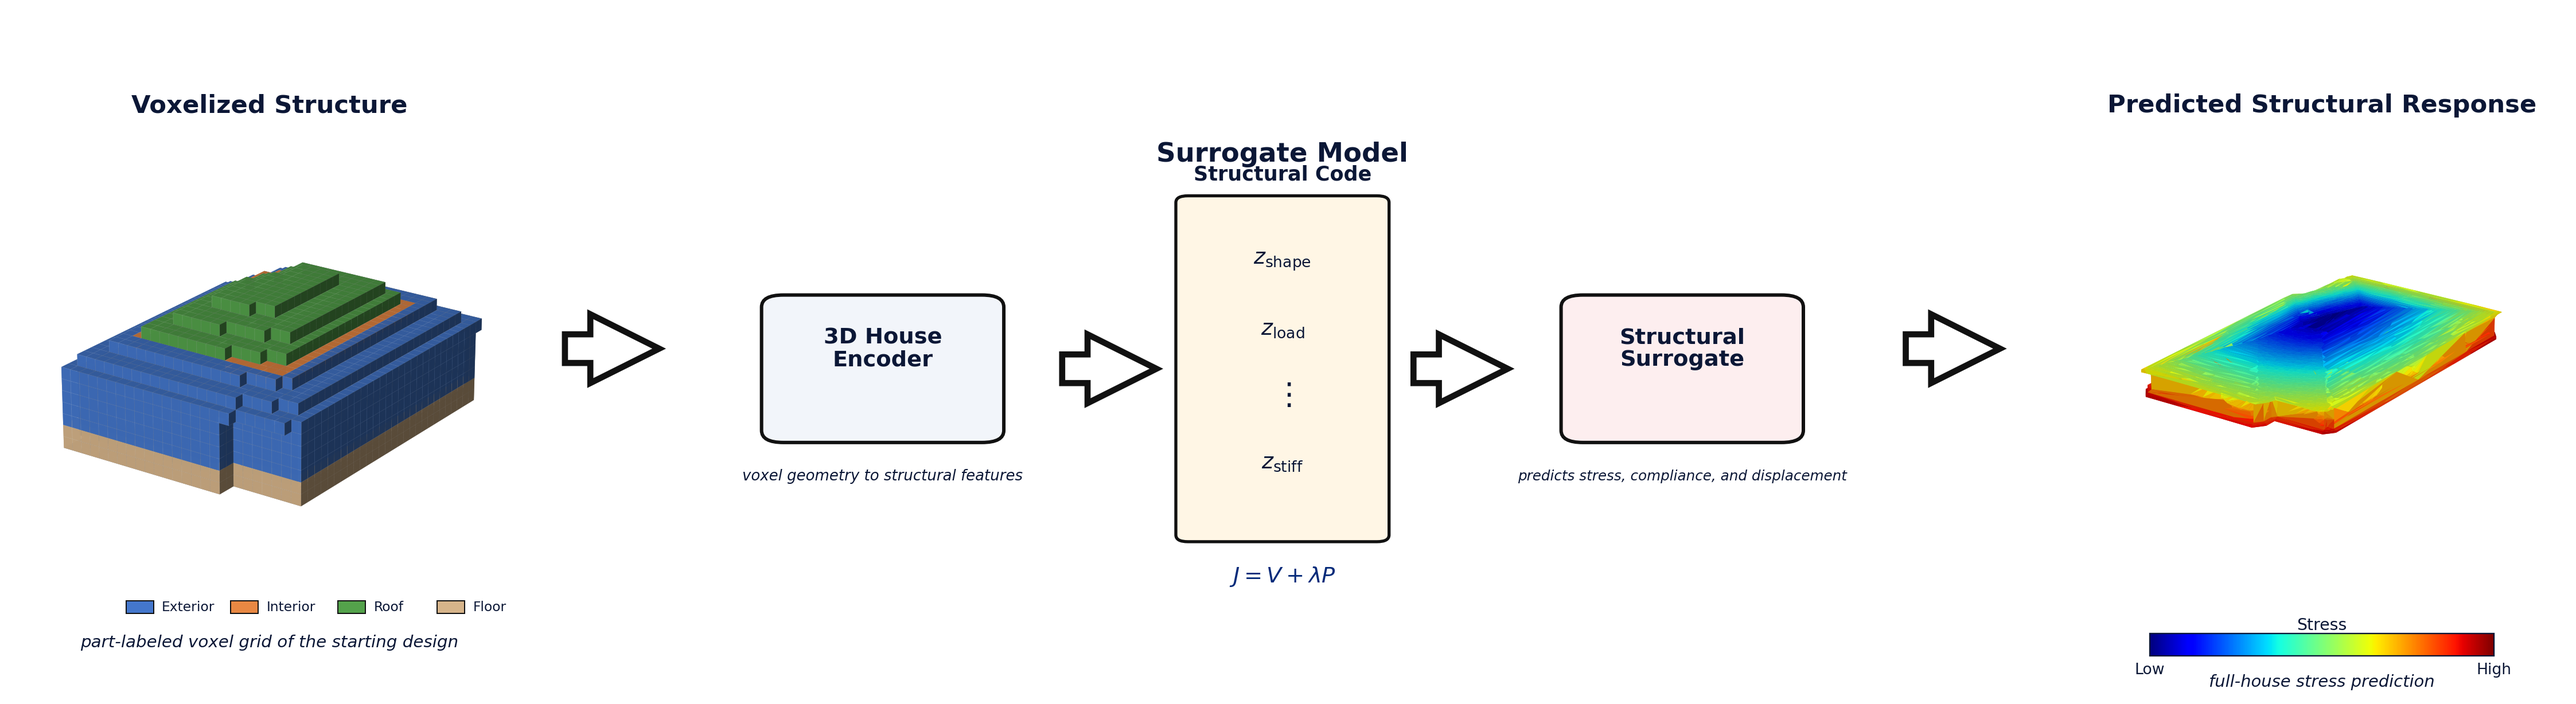
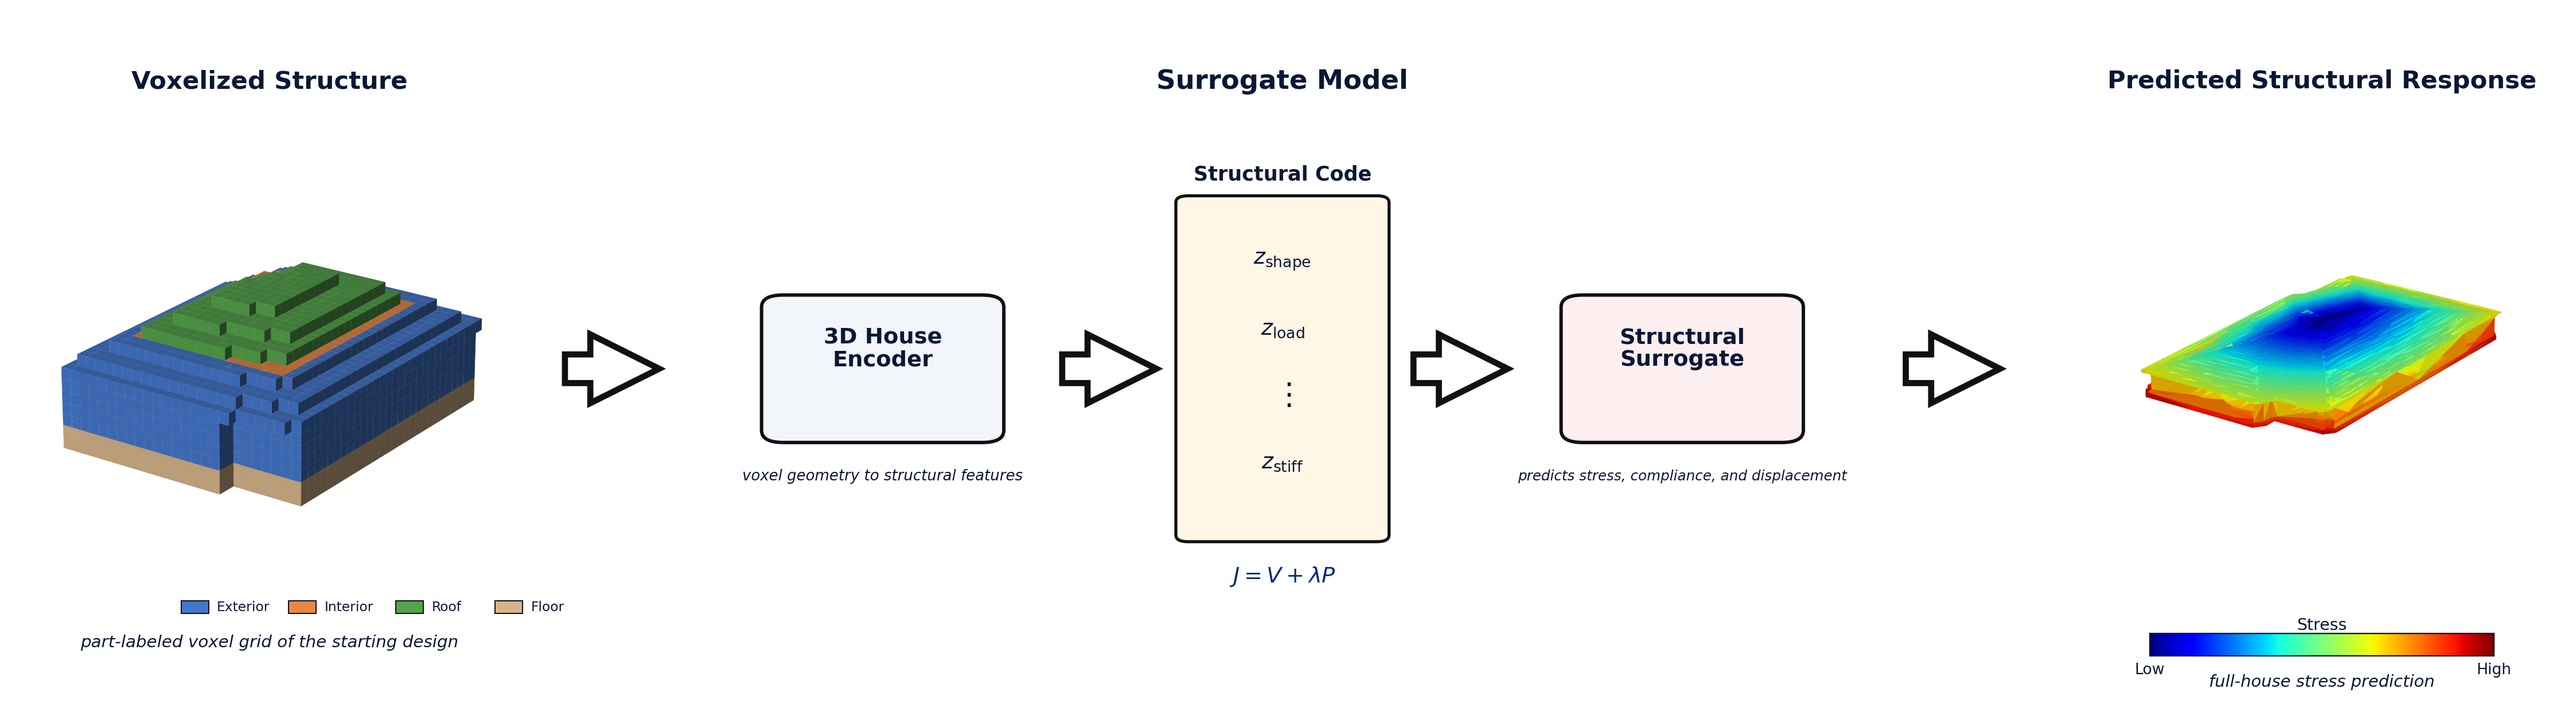
problem framing: align titles and arrow baseline

diff --git a/generate_problem_framing.py b/generate_problem_framing.py
@@ -31,6 +31,7 @@ SLAB = "#D6B48A"
 ARROW_LW = 3.2
 ARROW_SCALE = 30
 ARROW_DX = 0.037
+TITLE_Y = 0.835
 
 OUT = Path("poster_images_extracted/problem_framing.png")
 
@@ -323,11 +324,12 @@ fig = plt.figure(figsize=(20, 5.8), facecolor=WHITE)
 left = (0.015, 0.08, 0.215, 0.84)
 mid = (0.280, 0.08, 0.440, 0.84)
 right = (0.770, 0.08, 0.215, 0.84)
+arrow_y = mid[1] + mid[3] * 0.47
 
 # keep the background clean like the reference figure
 
-add_outline_arrow(fig, (0.238, 0.50), (0.238 + ARROW_DX, 0.50), transform=fig.transFigure, scale=ARROW_SCALE, lw=ARROW_LW)
-add_outline_arrow(fig, (0.725, 0.50), (0.725 + ARROW_DX, 0.50), transform=fig.transFigure, scale=ARROW_SCALE, lw=ARROW_LW)
+add_outline_arrow(fig, (0.238, arrow_y), (0.238 + ARROW_DX, arrow_y), transform=fig.transFigure, scale=ARROW_SCALE, lw=ARROW_LW)
+add_outline_arrow(fig, (0.725, arrow_y), (0.725 + ARROW_DX, arrow_y), transform=fig.transFigure, scale=ARROW_SCALE, lw=ARROW_LW)
 
 
 # ── Left: actual voxelized structure ─────────────────────────────────────────
@@ -340,13 +342,13 @@ render_voxelized_house(
     azim=-55,
 )
 
-fig.text(0.132, 0.805, "Voxelized Structure",
+fig.text(0.132, TITLE_Y, "Voxelized Structure",
          ha="center", va="center", fontsize=13, fontweight="bold", color=DARK)
 fig.text(0.132, 0.132, "part-labeled voxel grid of the starting design",
          ha="center", va="center", fontsize=8.8, color=DARK, fontstyle="italic")
 
 legend_y = 0.168
-legend_x = [0.080, 0.118, 0.157, 0.193]
+legend_x = [0.100, 0.139, 0.178, 0.214]
 legend_colors = [WALL, INTERIOR, ROOF, SLAB]
 legend_labels = ["Exterior", "Interior", "Roof", "Floor"]
 for x0, c0, txt in zip(legend_x, legend_colors, legend_labels):
@@ -363,8 +365,8 @@ ax_mid.set_xlim(0, 1)
 ax_mid.set_ylim(0, 1)
 ax_mid.set_axis_off()
 
-ax_mid.text(0.50, 0.79, "Surrogate Model",
-            ha="center", va="center", fontsize=14, fontweight="bold", color=DARK)
+fig.text(0.500, TITLE_Y, "Surrogate Model",
+         ha="center", va="center", fontsize=14, fontweight="bold", color=DARK)
 
 # simple reference-style flow
 enc_box = FancyBboxPatch((0.08, 0.37), 0.18, 0.20,
@@ -378,8 +380,8 @@ ax_mid.text(0.17, 0.31, "voxel geometry to structural features",
 
 add_outline_arrow(
     fig,
-    (mid[0] + mid[2] * 0.315, mid[1] + mid[3] * 0.47),
-    (mid[0] + mid[2] * 0.315 + ARROW_DX, mid[1] + mid[3] * 0.47),
+    (mid[0] + mid[2] * 0.315, arrow_y),
+    (mid[0] + mid[2] * 0.315 + ARROW_DX, arrow_y),
     transform=fig.transFigure,
     scale=ARROW_SCALE,
     lw=ARROW_LW,
@@ -400,8 +402,8 @@ ax_mid.text(0.50, 0.16, r"$J = V + \lambda P$",
 
 add_outline_arrow(
     fig,
-    (mid[0] + mid[2] * 0.605, mid[1] + mid[3] * 0.47),
-    (mid[0] + mid[2] * 0.605 + ARROW_DX, mid[1] + mid[3] * 0.47),
+    (mid[0] + mid[2] * 0.605, arrow_y),
+    (mid[0] + mid[2] * 0.605 + ARROW_DX, arrow_y),
     transform=fig.transFigure,
     scale=ARROW_SCALE,
     lw=ARROW_LW,
@@ -422,7 +424,7 @@ ax_right = fig.add_axes([0.787, 0.18, 0.178, 0.64], projection="3d")
 render_mesh(ax_right, "figures/screenshot_stls/REF_SASTO_PA_colored.ply",
             color_mode="stress", elev=22, azim=-55, ambient=0.84)
 
-fig.text(0.8775, 0.805, "Predicted Structural Response",
+fig.text(0.8775, TITLE_Y, "Predicted Structural Response",
          ha="center", va="center", fontsize=13, fontweight="bold", color=DARK)
 fig.text(0.8775, 0.082, "full-house stress prediction",
          ha="center", va="center", fontsize=8.7, color=DARK, fontstyle="italic")
